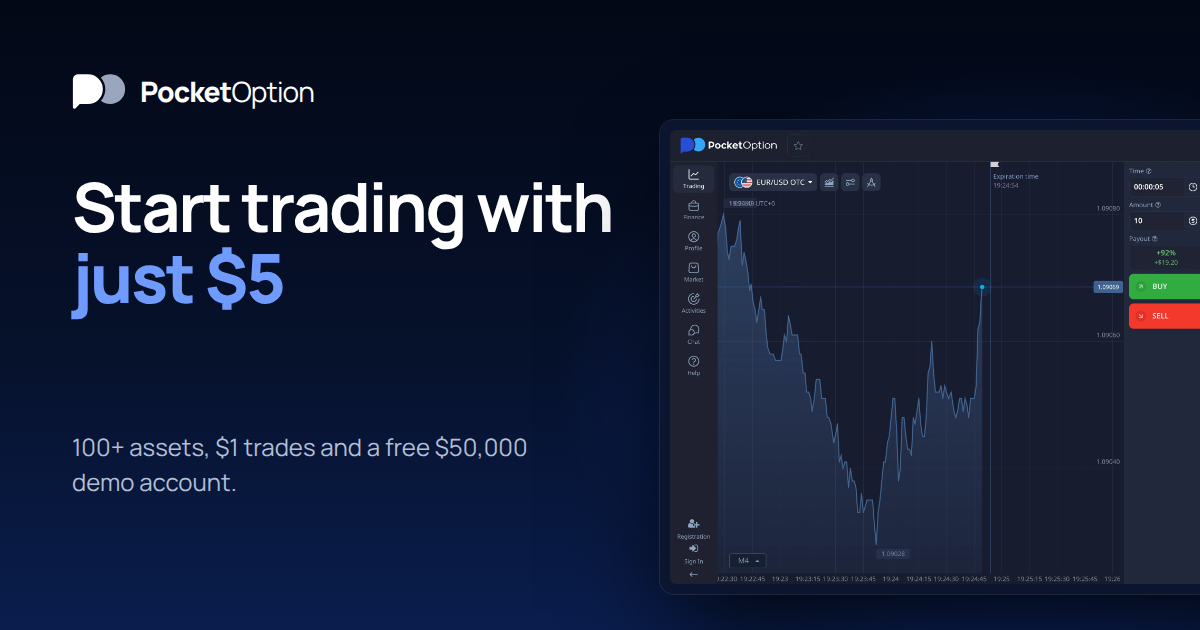
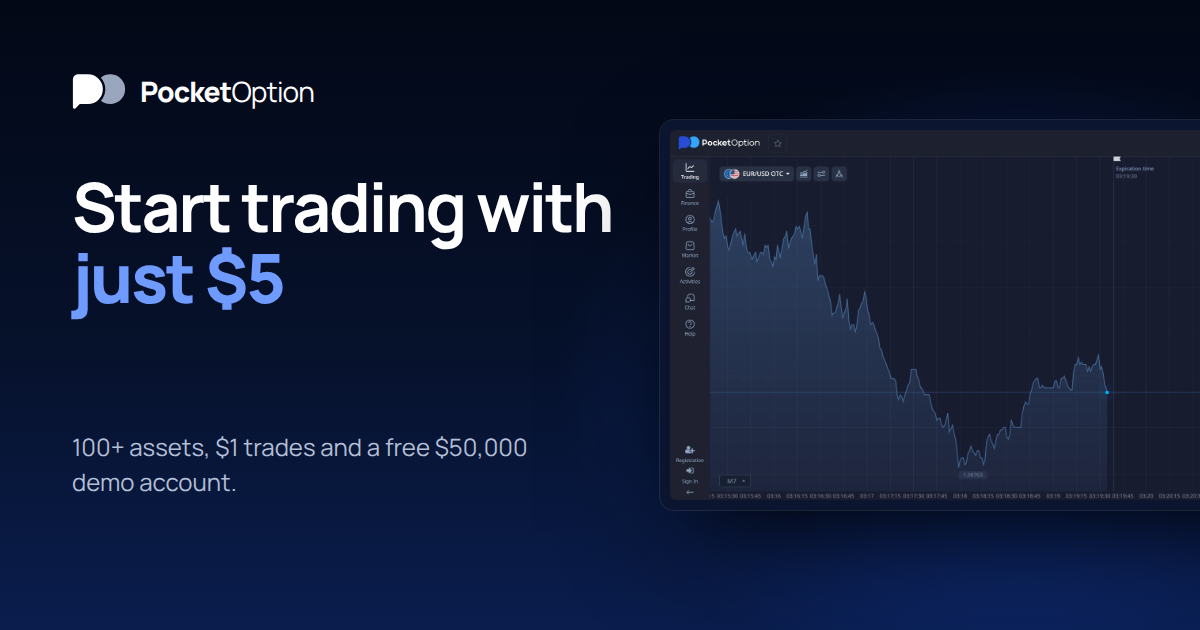
Hero: new cleaned desktop platform screenshot; balance headings

diff --git a/src/styles/global.css b/src/styles/global.css
@@ -1356,3 +1356,13 @@ footer.site {
 .wm b {
   font-weight: 800;
 }
+h1 {
+  text-wrap: balance;
+}
+.trust {
+  gap: 10px 24px;
+}
+.dev .ph {
+  width: 150px;
+  bottom: -56px;
+}
